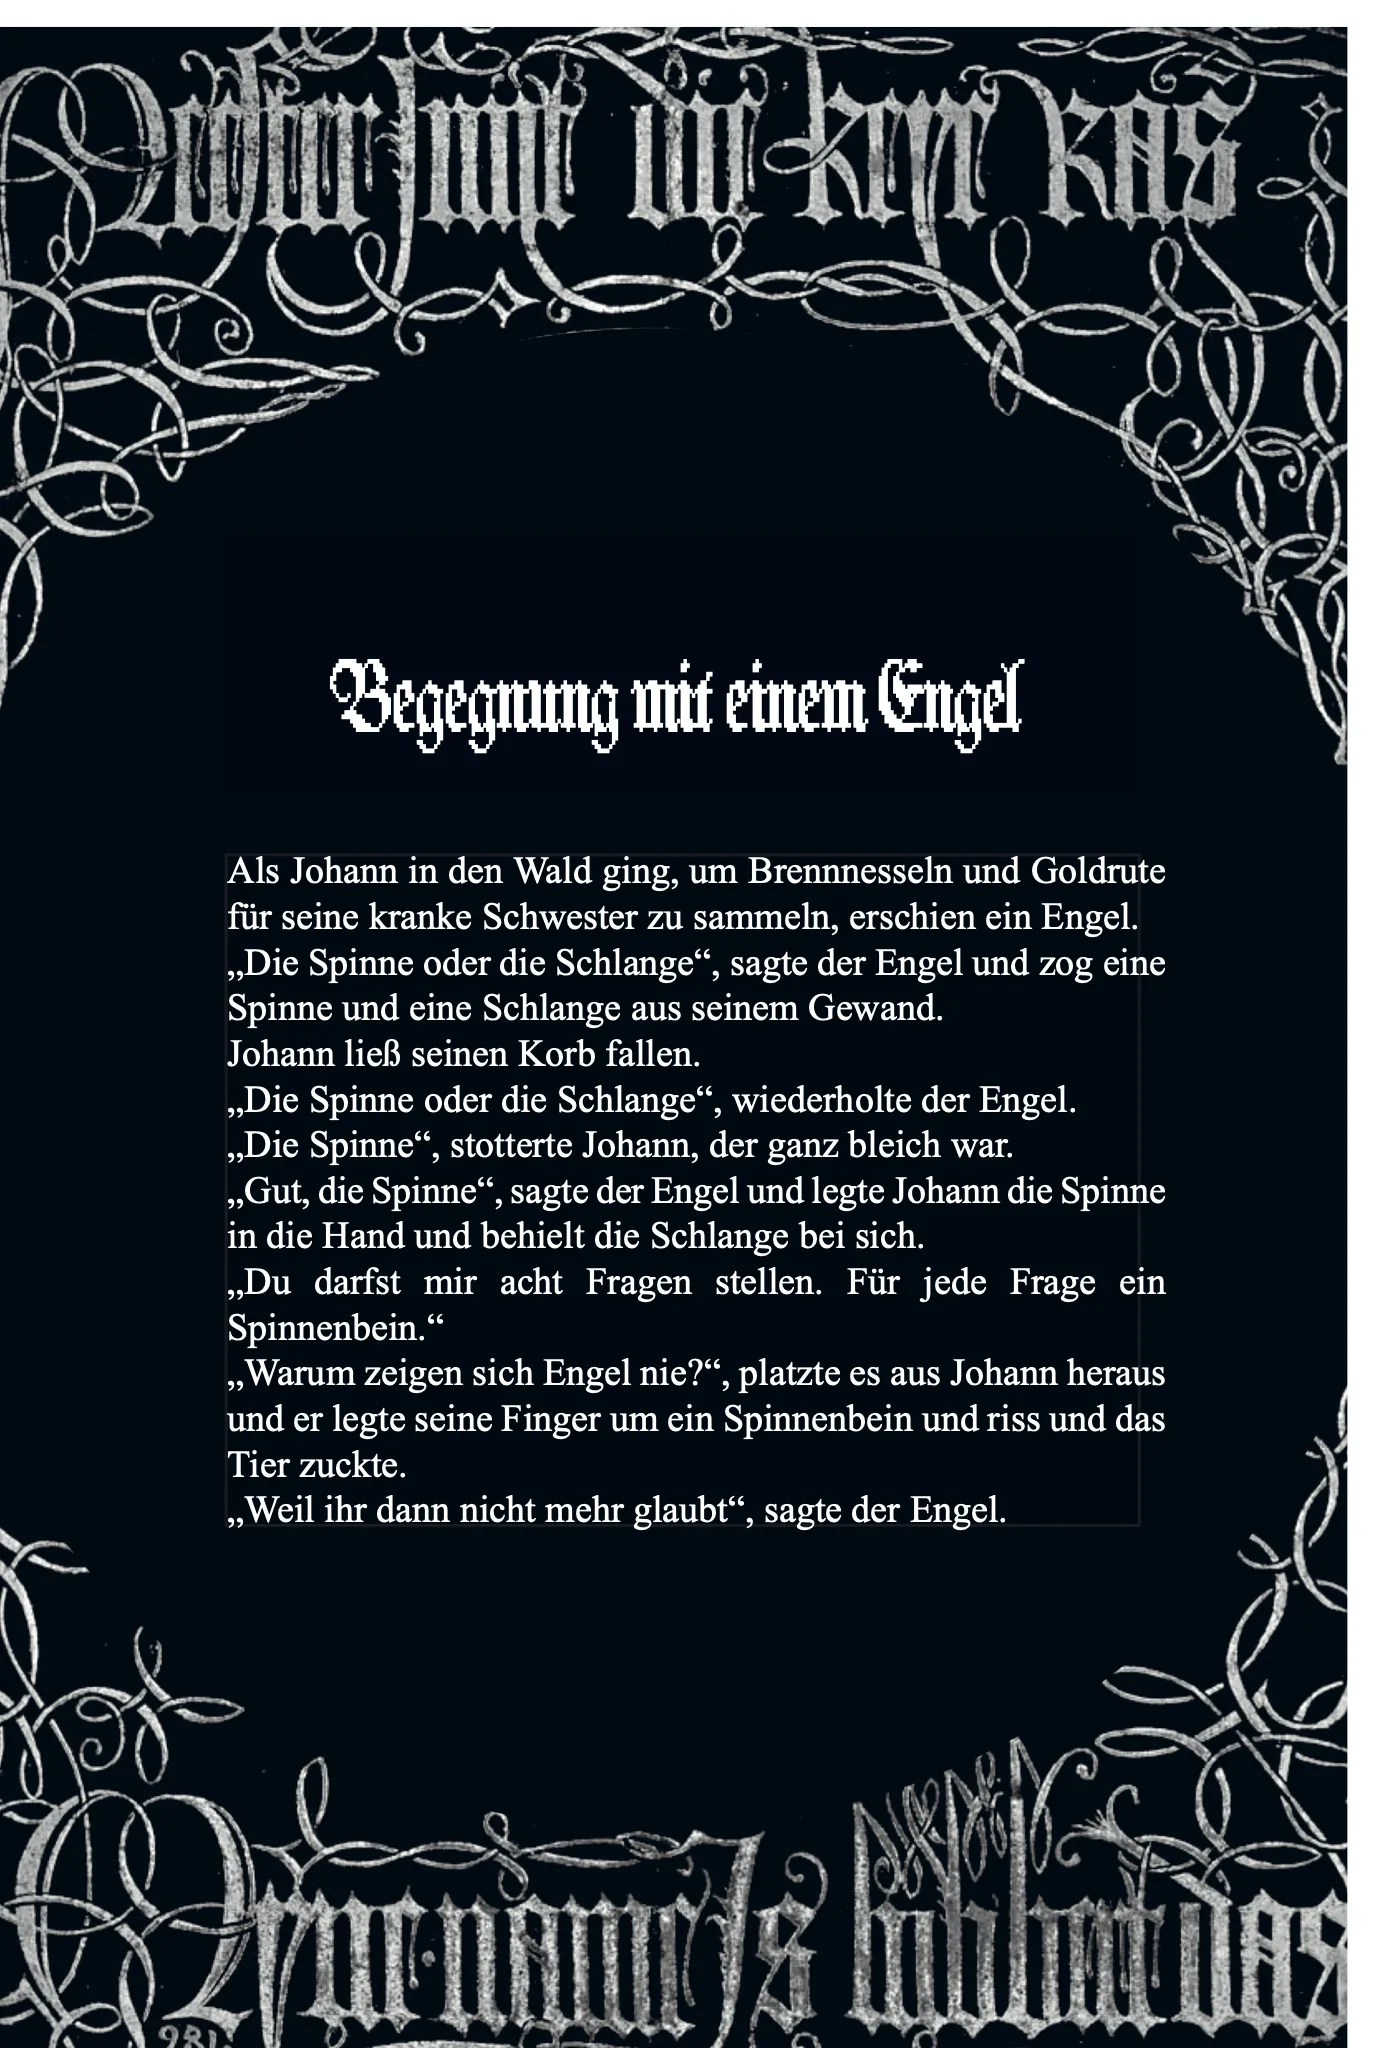
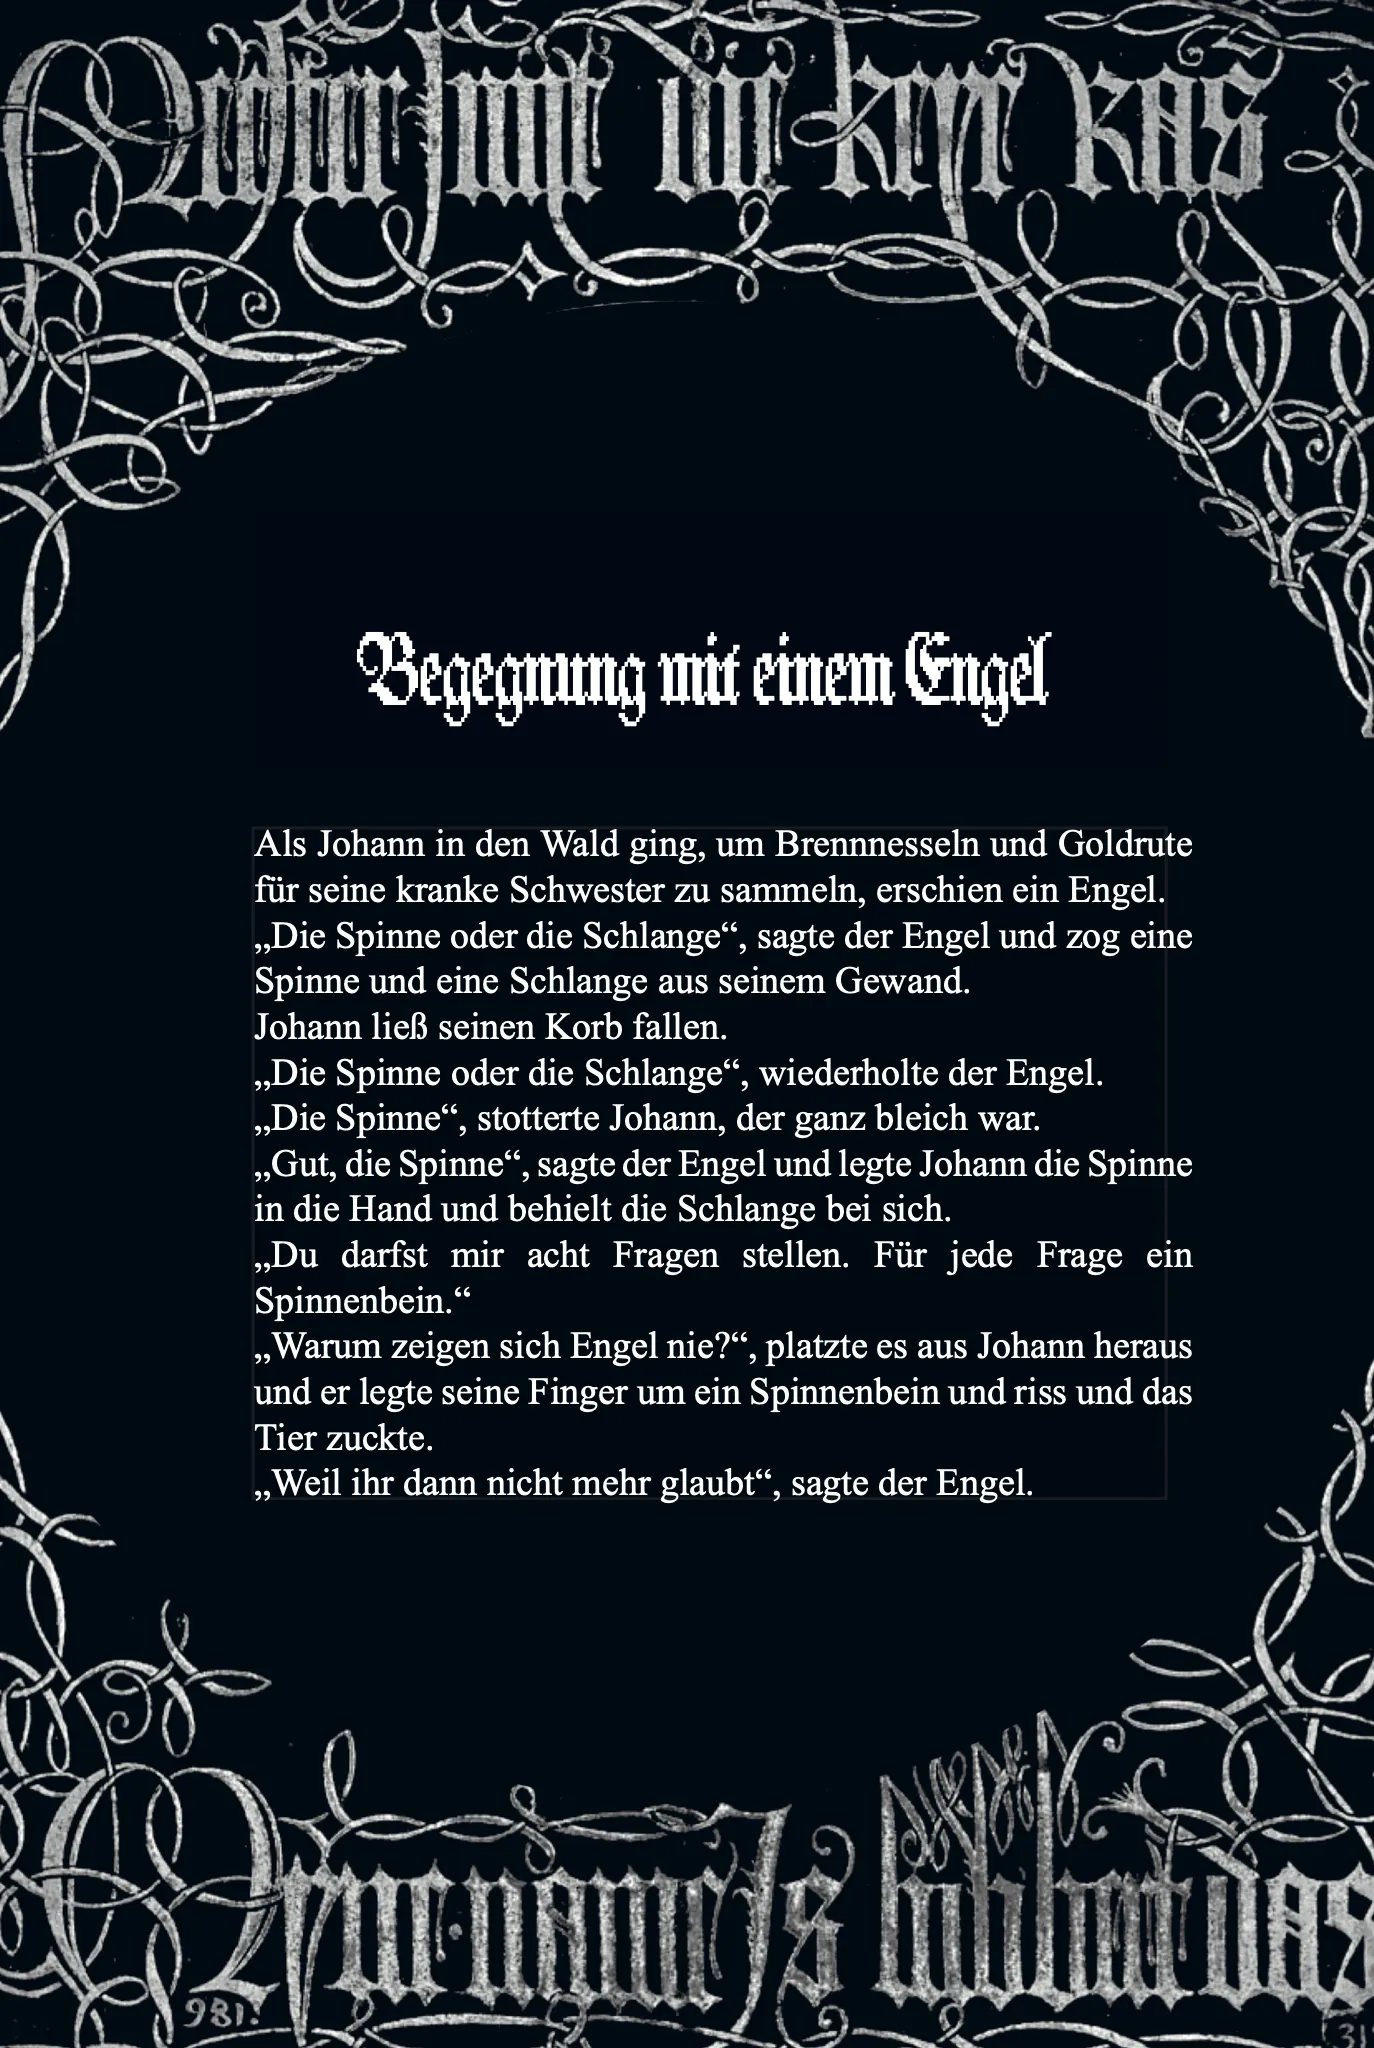
Der Beschnitt sass um die Schnittzugabe daneben
Mein Fehler, und ein peinlicher: `PDFPage.draw(with:to:)` legt den
gewaehlten Kasten von sich aus in den Ursprung. Ich habe danach **noch
einmal** um den Ursprung verschoben. Bei der CropBox faellt das nicht auf,
die faengt bei (0|0) an. Bei der TrimBox faengt sie bei (8,5|8,5) an — also
rutschte jede Seite um die Schnittzugabe nach links unten, und oben und
rechts blieb weisses Papier stehen. Ein Rahmen um jede Seite, und am Bund
ein heller Balken.

Nachgemessen an den Raendern der neuen Seiten: oben, unten, links und
rechts steht ueberall Druck, kein Weiss mehr. Die Doppelseite 2|3 zeigt das
Oval am Bund einmal, nicht zweimal.

diff --git a/scripts/magazin-rendern.swift b/scripts/magazin-rendern.swift
@@ -127,7 +127,12 @@ for stelle in 0..<bis {
   default:
     break
   }
-  stift.translateBy(x: -kasten.origin.x, y: -kasten.origin.y)
+  // **Nicht** noch einmal um den Ursprung des Kastens verschieben:
+  // `draw(with:to:)` legt den gewaehlten Kasten von sich aus in den
+  // Ursprung. Bei der CropBox faellt eine zweite Verschiebung nicht auf —
+  // die faengt bei (0,0) an. Bei der TrimBox faengt sie bei (8,5|8,5) an,
+  // und dann rutscht die Seite um die Schnittzugabe nach links unten:
+  // oben und rechts bleibt weisses Papier stehen, ein Rahmen um die Seite.
   seite.draw(with: box, to: stift)
   stift.restoreGState()
 
